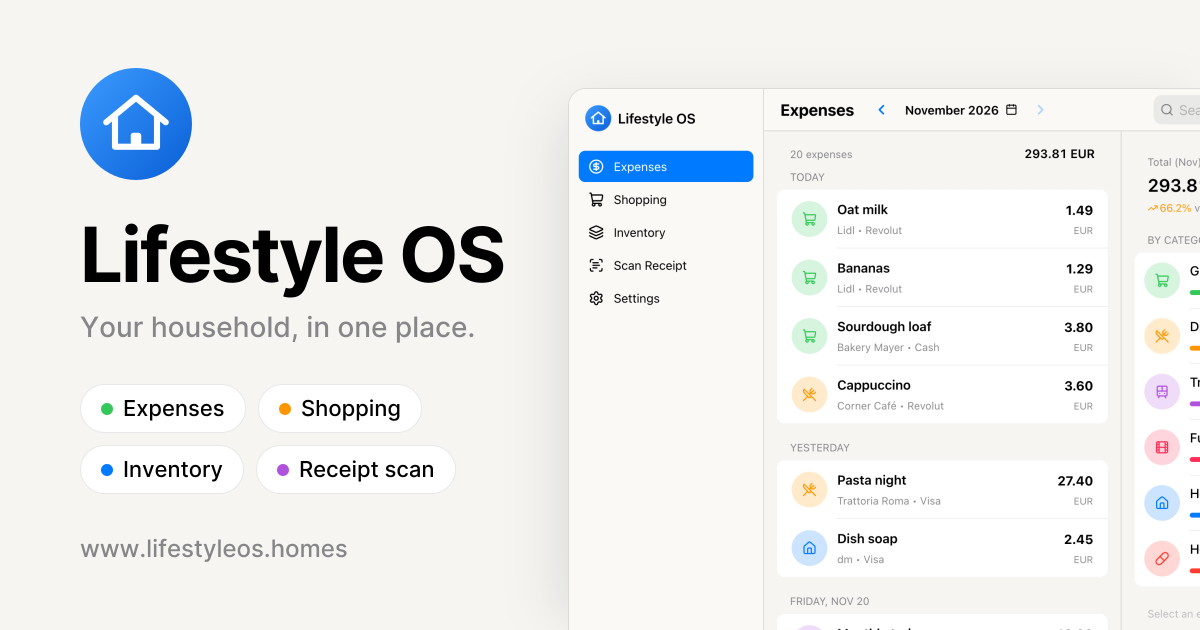
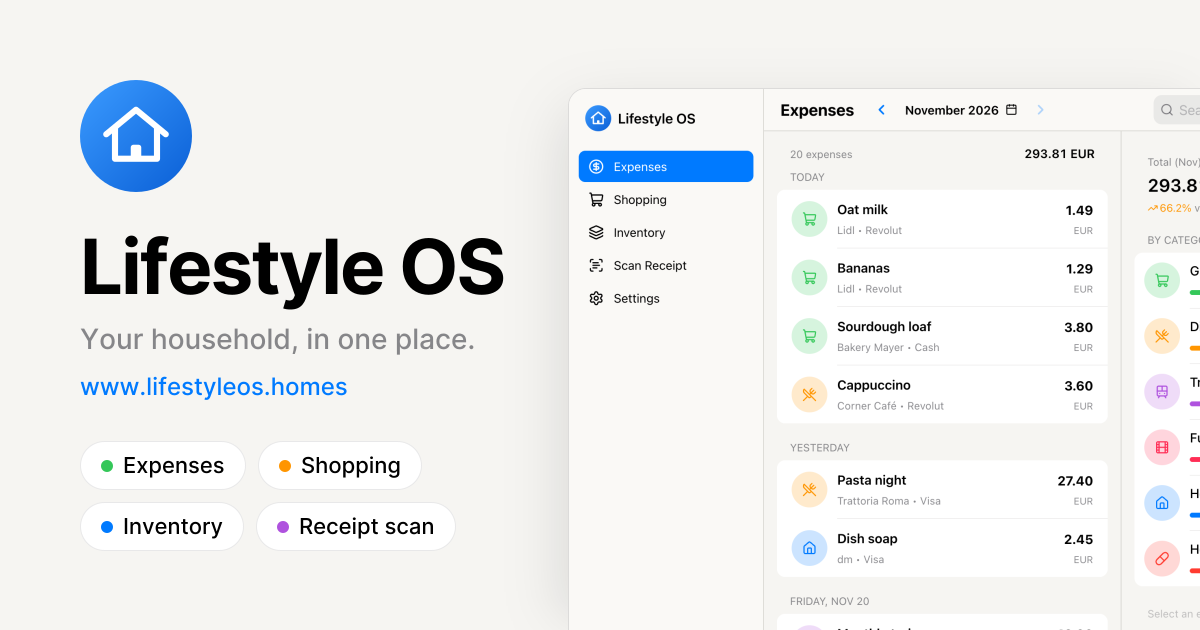
Update OG image with URL

diff --git a/src/app/opengraph-image.tsx b/src/app/opengraph-image.tsx
@@ -62,6 +62,9 @@ export default function OpengraphImage() {
           <div style={{ fontSize: 28, fontWeight: 500, color: "rgba(60, 60, 67, 0.6)", marginTop: 18 }}>
             Your household, in one place.
           </div>
+          <div style={{ fontSize: 24, fontWeight: 500, color: "#007aff", marginTop: 16 }}>
+            www.lifestyleos.homes
+          </div>
           <div style={{ display: "flex", flexWrap: "wrap", gap: 12, marginTop: 40, width: 400 }}>
             {FEATURES.map((f) => (
               <div
@@ -82,9 +85,6 @@ export default function OpengraphImage() {
                 {f.label}
               </div>
             ))}
-          </div>
-          <div style={{ fontSize: 24, fontWeight: 500, color: "rgba(60, 60, 67, 0.6)", marginTop: 40 }}>
-            www.lifestyleos.homes
           </div>
         </div>
 
